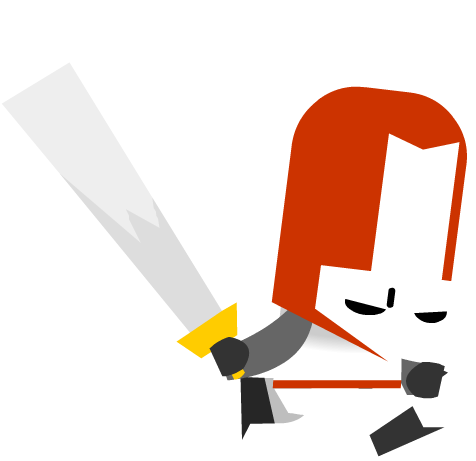
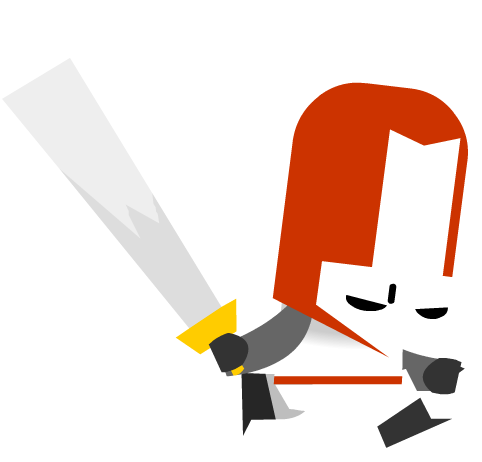
fixed frames

diff --git a/main.js b/main.js
@@ -20,7 +20,7 @@ var images = {
     world1: {
         bg: './assets/World_1/Background.png',
         character: {
-            run: ['./assets/World_1/run1.png', './assets/World_1/run2.png', './assets/World_1/run3.png']
+            run: ['./assets/World_1/run1.png', './assets/World_1/run2.png', './assets/World_1/run3.png', './assets/World_1/run1.png',]
         },
         pads: ['./assets/World_1/Pad1.png', './assets/World_1/Pad2.png'],
         coin: './assets/World_1/Coin1.png',
@@ -29,7 +29,7 @@ var images = {
     world2: {
         bg: './assets/World_2/Background3.jpg',
         character: {
-            run: ['./assets/World_3/run1.png', './assets/World_3/run2.png', './assets/World_3/run3.png', './assets/World_3/run4.png', './assets/World_3/run5.png', './assets/World_3/run6.png', './assets/World_3/run7.png', './assets/World_3/run8.png',]
+            run: ['./assets/World_3/run1.png', './assets/World_3/run2.png', './assets/World_3/run3.png', './assets/World_3/run4.png']
         },
         pads: ['./assets/World_2/Pad1.png', './assets/World_2/Pad2.png'],
         coin: './assets/World_2/coin1.png',
@@ -38,7 +38,7 @@ var images = {
     world3: {
         bg: './assets/World_3/Background.png',
         character: {
-            run: ['./assets/World_2/run1.png', './assets/World_2/run2.png', './assets/World_2/run3.png', './assets/World_2/run4.png', './assets/World_2/run5.png', './assets/World_2/run6.png']
+            run: ['./assets/World_2/run1.png', './assets/World_2/run2.png', './assets/World_2/run3.png', './assets/World_2/run4.png']
         },
         pads: ['./assets/World_3/Pad1.png', './assets/World_3/Pad2.png'],
         coin: './assets/World_3/coin1.png',
@@ -75,21 +75,27 @@ function Character(x, y, width, height, images) {
     this.height = height || 200
     this.jumping = true
     this.position = 0
-    this.character = new Image()
-    this.character.src = images[this.position]
+    this.frame1 = new Image()
+    this.frame1.src = images[0]
+    this.frame2 = new Image()
+    this.frame2.src = images[1]
+    this.frame3 = new Image()
+    this.frame3.src = images[2]
+    this.frame4 = new Image()
+    this.frame4.src = images[3]
     this.y_velocity = 2.5
     this.grounded = false
+    this.fps = [this.frame1, this.frame2, this.frame3, this.frame4]
     this.draw = () => {
         this.boundaries()
-        ctx.drawImage(this.character, this.x, this.y, this.width, this.height)
+        ctx.drawImage(this.fps[this.position], this.x, this.y, this.width, this.height)
 
         if (frames % 10 === 0) {
             switch (this.position) {
-                case images.length - 1:
+                case this.fps.length - 1:
                     this.position = 0
                 default:
                     this.position += 1
-                    this.character.src = images[this.position]
             }
         }
     }
@@ -206,10 +212,10 @@ function start() {
         youlose.currentTime = 0;
     }
     frames = 0
-    if (!interval) interval = setInterval(update, 300 / 60)
+    if (!interval) interval = setInterval(update, 500 / 60)
 
 }
-var currentPlayer
+var currentPlayer = 3
 var world = 3
 
 function update() {
@@ -376,7 +382,7 @@ function drawObstacles(images) {
 }
 
 function collisionCheck(char, plat) {
-    var vectorX = (char.x + (char.width / 2)) - (plat.x + (plat.width / 2)) + 50;
+    var vectorX = (char.x + (char.width / 2)) - (plat.x + (plat.width / 2));
     var vectorY = (char.y + (char.height / 2)) - (plat.y + (plat.height / 2));
 
 

diff --git a/styles.css b/styles.css
@@ -14,6 +14,9 @@
 }
 
 body{
+    display: flex;
+    align-items: center;
+    justify-content: center;
     height: 100vh;
     background-image: url('./assets/body_back.jpg');
     background-size: cover;
